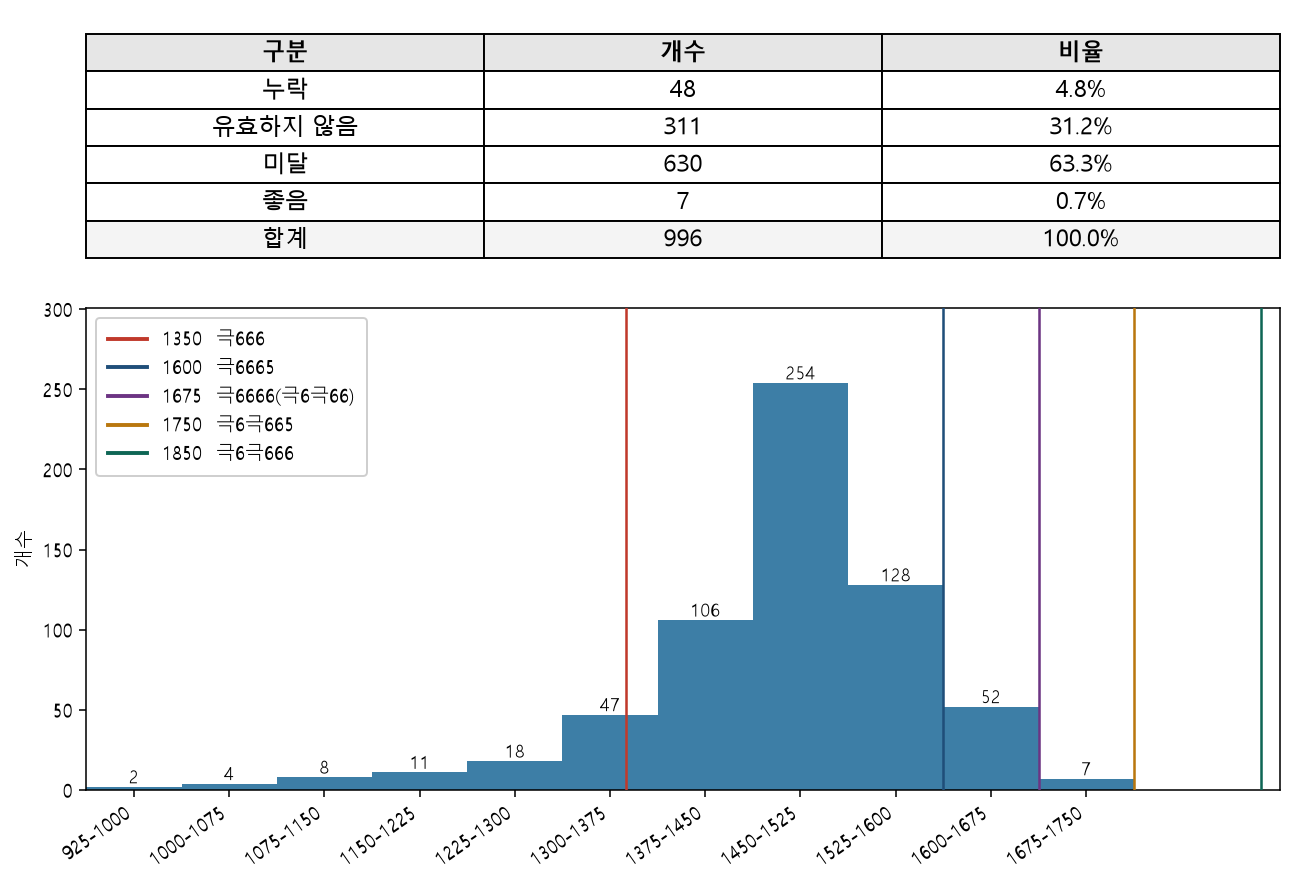
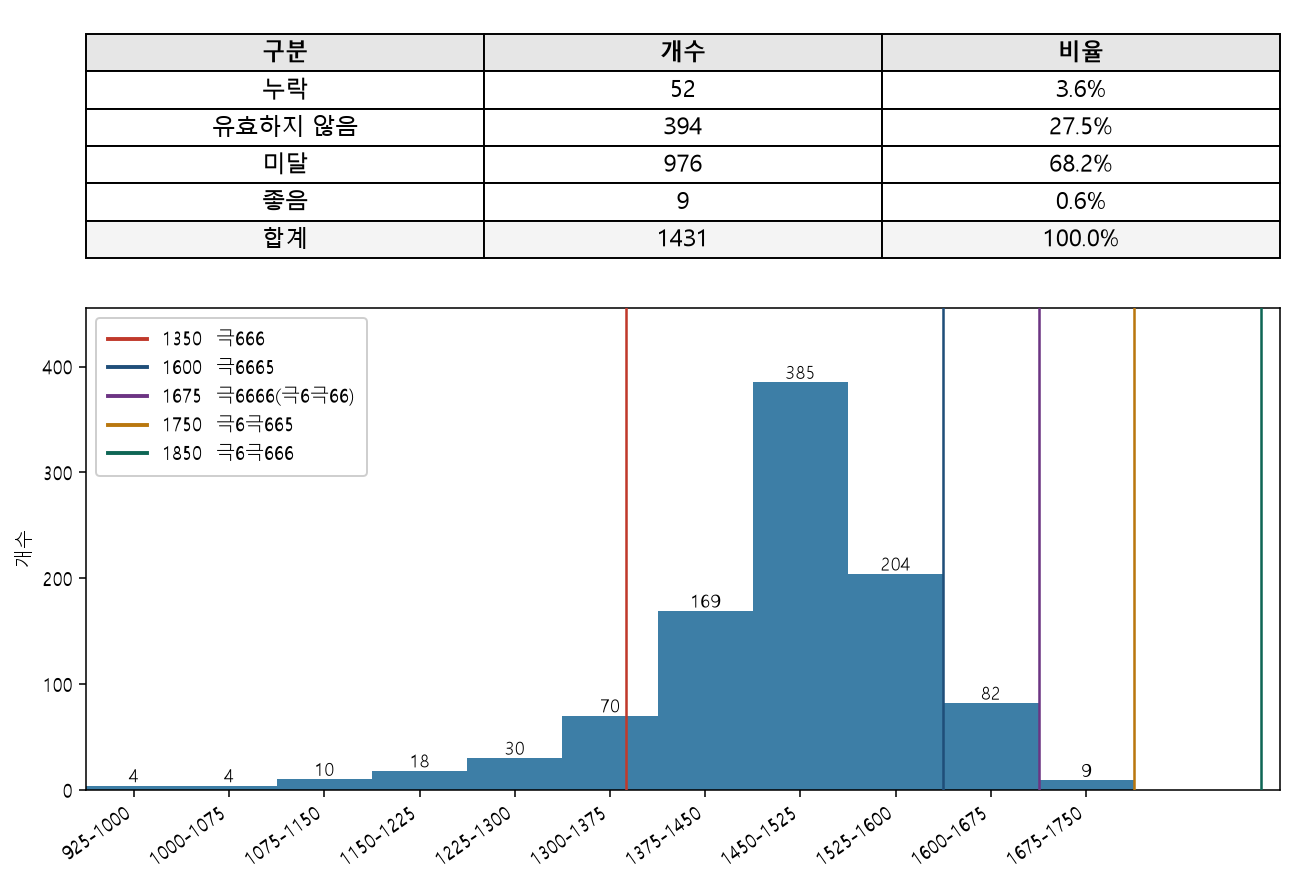
Release 0.2.9 with a longer auth-mail wait and channel 14.
New auth mails are judged from the previous mail time, including spam, and module capture retries through channel 14.

diff --git a/agent/handlers.py b/agent/handlers.py
@@ -246,7 +246,8 @@ def handle_email_login(ctx: AgentContext) -> State:
     import time as _time
 
     click_ms = int(_time.time() * 1000)
-    not_before_ms = max(prev_ms, click_ms - 5_000)
+    # 기준 메일이 있으면 그 시각만 쓴다. PC 시계가 빠르면 방금 온 메일도 거절된다.
+    not_before_ms = prev_ms if prev_ms else click_ms - 5_000
 
     if not _sleep_while_running(ctx, 0.1):
         return State.IDLE
@@ -254,7 +255,7 @@ def handle_email_login(ctx: AgentContext) -> State:
     left_click(px, py)
 
     auth = wait_for_auth_code(
-        timeout_sec=60.0,
+        timeout_sec=80.0,
         not_before_ms=not_before_ms,
         exclude_message_id=prev_id,
         should_continue=_still_running,
@@ -486,7 +487,7 @@ def handle_run_macro_2(ctx: AgentContext) -> State:
     from agent.window_util import force_foreground, get_console_hwnd, get_foreground_hwnd
 
     ctx.module_vdata = None
-    for channel in ("11", "12", "13"):
+    for channel in ("11", "12", "13", "14"):
         if not ctx.running:
             return State.IDLE
         log.info("채널 %s — 모듈 패킷 대기 후 채널 전환", channel)
@@ -534,7 +535,7 @@ def handle_run_macro_2(ctx: AgentContext) -> State:
             break
         log.info("채널 %s 모듈 패킷 미수신", channel)
     else:
-        log.info("채널 11·12·13 모듈 패킷 미수신 — 로그아웃으로 진행")
+        log.info("채널 11·12·13·14 모듈 패킷 미수신 — 로그아웃으로 진행")
 
     return State.SAVE_SCREENSHOT
 

diff --git a/agent/gmail_client.py b/agent/gmail_client.py
@@ -15,9 +15,9 @@ log = logging.getLogger(__name__)
 SCOPES = ["https://www.googleapis.com/auth/gmail.readonly"]
 # 제목 예: "977614 인증 코드를 확인하세요"
 SUBJECT_CODE_RE = re.compile(r"(\d{6})\s*인증\s*코드")
-GMAIL_QUERY = "newer_than:1d 인증 코드"
-DEFAULT_TIMEOUT_SEC = 60.0
-POLL_INTERVAL_SEC = 2.5
+GMAIL_QUERY = "in:anywhere newer_than:1d 인증 코드"
+DEFAULT_TIMEOUT_SEC = 80.0
+POLL_INTERVAL_SEC = 4.0
 
 
 @dataclass(frozen=True)
@@ -114,7 +114,8 @@ def snapshot_latest_auth_id(service) -> tuple[str | None, int]:
     mails = fetch_latest_auth_mails(service, max_results=3)
     if not mails:
         return None, 0
-    return mails[0].message_id, mails[0].internal_date_ms
+    mail = mails[0]
+    return mail.message_id, mail.internal_date_ms
 
 
 def wait_for_auth_code(

diff --git a/agent/macros.py b/agent/macros.py
@@ -192,7 +192,7 @@ MACRO_2: tuple[MacroStep, ...] = (
     Delay(0.200),
 )
 
-# 창 닫기·채널 변환. 채널 번호만 바꿔 11 → 12 → 13 순으로 다시 시도한다.
+# 창 닫기·채널 변환. 채널 번호만 바꿔 11 → 12 → 13 → 14 순으로 다시 시도한다.
 # 패킷은 이 입력 도중 또는 직후에 도착한다.
 def channel_switch_macro(channel: str) -> tuple[MacroStep, ...]:
     steps: list[MacroStep] = [
@@ -206,7 +206,7 @@ def channel_switch_macro(channel: str) -> tuple[MacroStep, ...]:
     return tuple(steps)
 
 
-MACRO_2_CHANNEL = channel_switch_macro("13")
+MACRO_2_CHANNEL = channel_switch_macro("14")
 
 # 이전 모듈 탭 스크린샷용 입력. 패킷 계산으로 바꾸면서 실행하지 않는다.
 # # 모듈 탭 들어가기
